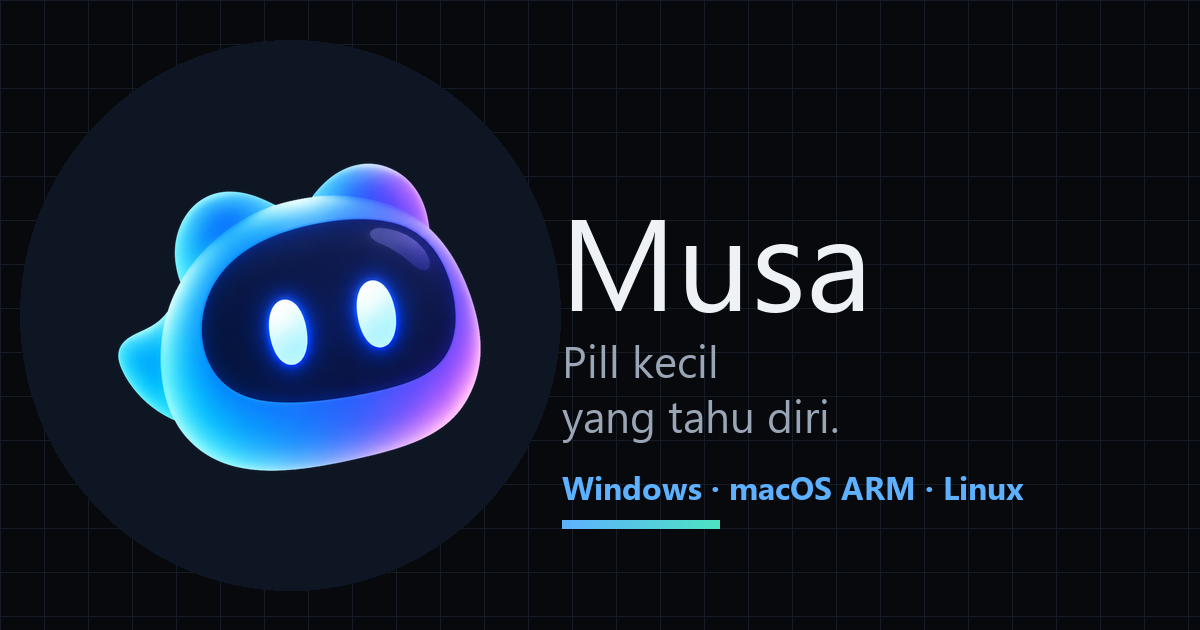
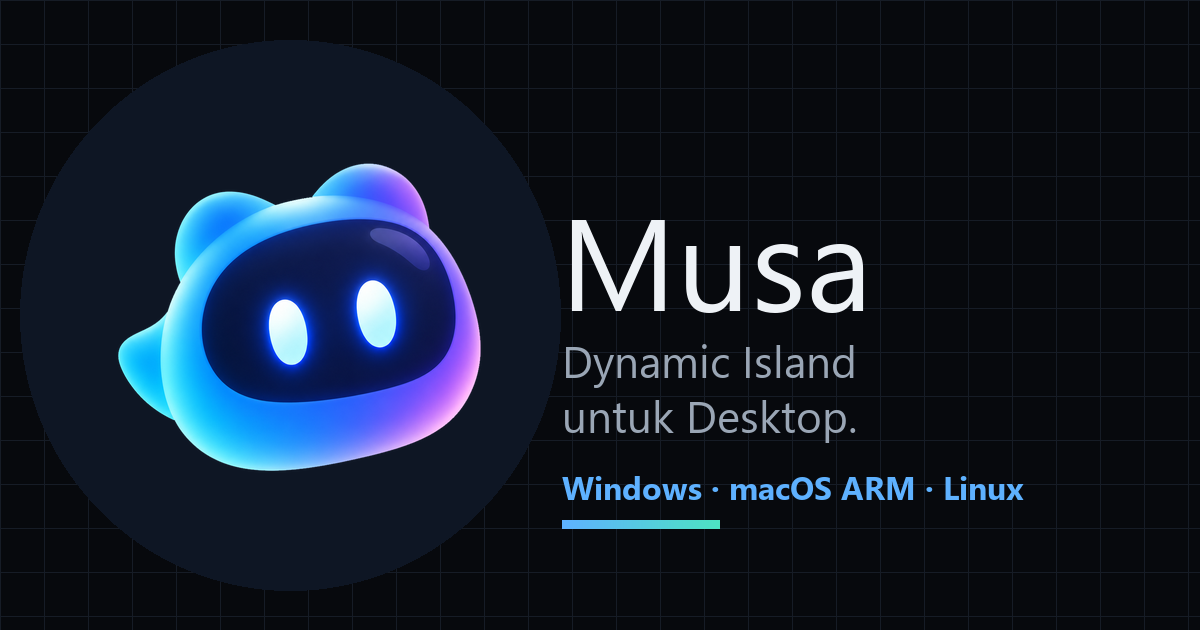
Hook Dynamic Island + tab lirik + reveal dua arah + tombol ke atas + trust strip

Changed region(s): [[0.4625, 0.6333, 0.7092, 0.6937], [0.4625, 0.5429, 0.7092, 0.6032]]

diff --git a/index.html b/index.html
@@ -3,19 +3,19 @@
 <head>
   <meta charset="utf-8" />
   <meta name="viewport" content="width=device-width, initial-scale=1" />
-  <title>Musa — Pill kecil yang tahu diri untuk desktop (Windows, macOS, Linux)</title>
+  <title>Musa — Dynamic Island untuk Desktop (Windows, macOS, Linux)</title>
   <meta name="description" content="Musa adalah pill kecil di atas layar: diam saat tidak dibutuhkan, mengembang saat hover, klik di luar pill tembus ke aplikasi. Untuk Windows 11, macOS ARM, dan Linux. Lokal, ringan, tanpa akun." />
   <link rel="canonical" href="https://musa.kacangan.net/" />
   <meta name="theme-color" content="#07090d" />
   <meta name="robots" content="index, follow" />
   <meta property="og:type" content="website" />
   <meta property="og:site_name" content="Musa" />
-  <meta property="og:title" content="Musa — Pill kecil yang tahu diri" />
+  <meta property="og:title" content="Musa — Dynamic Island untuk Desktop" />
   <meta property="og:description" content="Diam saat tidak dibutuhkan, mengembang saat hover. Klik tembus, 100% lokal. Windows 11 · macOS ARM · Ubuntu x64." />
   <meta property="og:url" content="https://musa.kacangan.net/" />
   <meta property="og:image" content="https://musa.kacangan.net/assets/og-image.png" />
   <meta name="twitter:card" content="summary_large_image" />
-  <meta name="twitter:title" content="Musa — Pill kecil yang tahu diri" />
+  <meta name="twitter:title" content="Musa — Dynamic Island untuk Desktop" />
   <meta name="twitter:description" content="Overlay pill: kecil, mengembang saat hover, click-through. Download Windows, macOS ARM, Linux." />
   <meta name="twitter:image" content="https://musa.kacangan.net/assets/og-image.png" />
   <link rel="preconnect" href="https://fonts.googleapis.com" />
@@ -43,7 +43,7 @@
 <body>
   <header class="nav">
     <div class="wrap nav-inner">
-      <a class="brand" href="index.html"><img src="assets/logo.png" alt="Logo Musa" width="30" height="30" /><span>Musa</span><code class="ver" id="ver-badge-nav">v1.0.0</code></a>
+      <a class="brand" href="index.html"><img src="assets/logo.png" alt="Logo Musa" width="30" height="30" /><span>Musa</span></a>
       <nav class="nav-links">
         <a href="#fitur">Fitur</a>
         <a href="#os">3 OS</a>
@@ -59,8 +59,8 @@
     <!-- Hero split: copy kiri, desktop mockup kanan -->
     <section class="hero wrap">
       <div class="hero-copy">
-        <p class="eyebrow"><span class="pulse"></span><span id="ver-badge">v1.0.0</span><span class="sep">·</span><span>100% lokal · tanpa akun</span></p>
-        <h1>Pill kecil<br />yang <em>tahu diri.</em></h1>
+        <p class="eyebrow"><span class="pulse"></span><span>Untuk Windows 11 · macOS ARM · Linux</span></p>
+        <h1>Dynamic Island<br />untuk Desktop, <em>yang tahu diri.</em></h1>
         <p class="lede">
           Musa nongkrong di tengah atas layar. Diam saat kamu kerja,
           mengembang saat di-hover — dan klik di luar pill selalu tembus
@@ -119,13 +119,13 @@
       </div>
     </section>
 
-    <!-- Strip OS -->
-    <section class="strip wrap" aria-label="Dukungan OS">
+    <!-- Strip trust -->
+    <section class="strip wrap" aria-label="Privasi">
       <div class="strip-inner mono">
-        <span>Windows 11</span><i>◆</i>
-        <span>macOS ARM</span><i>◆</i>
-        <span>Ubuntu x64</span><i>◆</i>
-        <span class="dim">satu pill, tiga rumah</span>
+        <span>Tanpa akun</span><i>◆</i>
+        <span>Tanpa analytic</span><i>◆</i>
+        <span>Data di perangkatmu</span><i>◆</i>
+        <a href="privasi/">Privasi →</a>
       </div>
     </section>
 
@@ -176,7 +176,7 @@
         <button class="tab" role="tab" id="tab-shelf" aria-controls="panel-shelf" aria-selected="false" tabindex="-1" data-desc="Drag file atau folder ke pill (maks 100, teks/URL 64KB, gambar 10MB), drag keluar ke chat atau email. Clipboard teks opsional, opt-in."><svg viewBox="0 0 16 16" width="13" height="13" aria-hidden="true"><path d="M2 5.5A1.5 1.5 0 0 1 3.5 4h3l1.5 2h4A1.5 1.5 0 0 1 13.5 7.5v4a1.5 1.5 0 0 1-1.5 1.5H3.5A1.5 1.5 0 0 1 2 11.5z" fill="none" stroke="currentColor" stroke-width="1.5" stroke-linejoin="round"/></svg>shelf</button>
         <button class="tab" role="tab" id="tab-stats" aria-controls="panel-stats" aria-selected="false" tabindex="-1" data-desc="CPU / RAM / baterai / unduh / unggah di pill ciut. Sampling native tiap 2 detik. Slot baterai kosong otomatis di PC tanpa baterai."><svg viewBox="0 0 16 16" width="13" height="13" aria-hidden="true"><path d="M2.5 13.5V8M6.5 13.5V5M10.5 13.5V9.5M14.5 13.5V3.5" stroke="currentColor" stroke-width="1.8" stroke-linecap="round"/></svg>stats</button>
         <button class="tab" role="tab" id="tab-gaya" aria-controls="panel-gaya" aria-selected="false" tabindex="-1" data-desc="Tiga gaya notch — Dynamic, Bulat, Poni — plus mode mata santai saat idle 60 detik. Ukuran compact / regular / large, opasitas 40–100%."><svg viewBox="0 0 16 16" width="13" height="13" aria-hidden="true"><rect x="1.5" y="5.5" width="8" height="5" rx="2.5" fill="none" stroke="currentColor" stroke-width="1.4"/><circle cx="12.5" cy="8" r="2.5" fill="none" stroke="currentColor" stroke-width="1.4"/></svg>gaya</button>
-        <button class="tab" role="tab" id="tab-mixer" aria-controls="panel-mixer" aria-selected="false" tabindex="-1" data-desc="Mixer volume per aplikasi + spectrum 24-band. Khusus Windows — di OS lain view-nya bilang terus terang tidak tersedia."><svg viewBox="0 0 16 16" width="13" height="13" aria-hidden="true"><path d="M3 5.5h10M3 8h10M3 10.5h10" stroke="currentColor" stroke-width="1.5" stroke-linecap="round"/><circle cx="6" cy="5.5" r="1.6" fill="var(--panel)" stroke="currentColor" stroke-width="1.5"/><circle cx="11" cy="8" r="1.6" fill="var(--panel)" stroke="currentColor" stroke-width="1.5"/><circle cx="7.5" cy="10.5" r="1.6" fill="var(--panel)" stroke="currentColor" stroke-width="1.5"/></svg>mixer</button>
+        <button class="tab" role="tab" id="tab-mixer" aria-controls="panel-mixer" aria-selected="false" tabindex="-1" data-desc="Mixer volume per aplikasi + spectrum 24-band. Khusus Windows — di OS lain view-nya bilang terus terang tidak tersedia."><svg viewBox="0 0 16 16" width="13" height="13" aria-hidden="true"><path d="M3 5.5h10M3 8h10M3 10.5h10" stroke="currentColor" stroke-width="1.5" stroke-linecap="round"/><circle cx="6" cy="5.5" r="1.6" class="knob" stroke="currentColor" stroke-width="1.5"/><circle cx="11" cy="8" r="1.6" class="knob" stroke="currentColor" stroke-width="1.5"/><circle cx="7.5" cy="10.5" r="1.6" class="knob" stroke="currentColor" stroke-width="1.5"/></svg>mixer</button>
         <button class="tab" role="tab" id="tab-aksi" aria-controls="panel-aksi" aria-selected="false" tabindex="-1" data-desc="Dua tombol saja: Task Manager dan kunci layar. Keep-awake sesi menahan system sleep, selalu mati tiap launch. Tray: Autohide / Force hide / Force show / Settings / Start at login / Quit."><svg viewBox="0 0 16 16" width="13" height="13" aria-hidden="true"><path d="M9 1.5L3.5 9H8l-1 5.5L12.5 7H8z" fill="none" stroke="currentColor" stroke-width="1.5" stroke-linejoin="round"/></svg>aksi</button>
       </div>
 
@@ -226,8 +226,8 @@
 
         <div class="panel" id="panel-stats" role="tabpanel" aria-labelledby="tab-stats" hidden aria-hidden="true">
           <div class="pv-slots">
-            <span class="pv-slot"><svg viewBox="0 0 30 30" width="34" height="34"><circle cx="15" cy="15" r="12" fill="none" stroke="rgba(238,242,246,.15)" stroke-width="3.5"/><circle cx="15" cy="15" r="12" fill="none" stroke="var(--brand)" stroke-width="3.5" stroke-linecap="round" stroke-dasharray="6 75.4" transform="rotate(-90 15 15)"/></svg><span><strong class="mono">8%</strong><span class="mono">CPU</span></span></span>
-            <span class="pv-slot"><svg viewBox="0 0 30 30" width="34" height="34"><circle cx="15" cy="15" r="12" fill="none" stroke="rgba(238,242,246,.15)" stroke-width="3.5"/><circle cx="15" cy="15" r="12" fill="none" stroke="var(--acc2)" stroke-width="3.5" stroke-linecap="round" stroke-dasharray="31 75.4" transform="rotate(-90 15 15)"/></svg><span><strong class="mono">41%</strong><span class="mono">RAM</span></span></span>
+            <span class="pv-slot"><svg viewBox="0 0 30 30" width="34" height="34"><circle cx="15" cy="15" r="12" fill="none" stroke="rgba(238,242,246,.15)" stroke-width="3.5"/><circle cx="15" cy="15" r="12" fill="none" class="ring-a" stroke-width="3.5" stroke-linecap="round" stroke-dasharray="6 75.4" transform="rotate(-90 15 15)"/></svg><span><strong class="mono">8%</strong><span class="mono">CPU</span></span></span>
+            <span class="pv-slot"><svg viewBox="0 0 30 30" width="34" height="34"><circle cx="15" cy="15" r="12" fill="none" stroke="rgba(238,242,246,.15)" stroke-width="3.5"/><circle cx="15" cy="15" r="12" fill="none" class="ring-b" stroke-width="3.5" stroke-linecap="round" stroke-dasharray="31 75.4" transform="rotate(-90 15 15)"/></svg><span><strong class="mono">41%</strong><span class="mono">RAM</span></span></span>
             <span class="pv-slot"><span class="mono pv-net">↓ 1.2 MB/s<br />↑ 240 KB/s</span></span>
           </div>
           <p class="mono pv-sub">sampling native tiap 2 detik</p>
@@ -332,6 +332,11 @@
       <span><a href="rilis/">Rilis</a> · <a href="privasi/">Privasi</a></span>
     </div>
   </footer>
+
+  <button class="to-top" id="to-top" aria-label="Kembali ke atas" tabindex="-1">
+    <svg viewBox="0 0 36 36" width="52" height="52" aria-hidden="true"><circle cx="18" cy="18" r="15.5" fill="none" stroke="rgba(238,242,246,.15)" stroke-width="3"/><circle id="to-top-ring" cx="18" cy="18" r="15.5" fill="none" stroke-width="3" stroke-linecap="round" stroke-dasharray="97.4" stroke-dashoffset="97.4" transform="rotate(-90 18 18)"/></svg>
+    <svg class="to-top-arrow" viewBox="0 0 16 16" width="15" height="15" aria-hidden="true"><path d="M8 13V3M3.5 7.5L8 3l4.5 4.5" fill="none" stroke="currentColor" stroke-width="1.8" stroke-linecap="round" stroke-linejoin="round"/></svg>
+  </button>
 
   <script src="app.js"></script>
 </body>

diff --git a/styles.css b/styles.css
@@ -46,11 +46,12 @@ a { color: inherit; }
   position: sticky; top: 0; z-index: 50;
   background: rgba(7, 9, 13, 0.82); backdrop-filter: blur(14px);
   border-bottom: 1px solid var(--line);
+  transition: transform 0.32s var(--spring);
 }
+.nav-hidden { transform: translateY(-100%); }
 .nav-inner { display: flex; align-items: center; gap: 20px; height: 62px; }
 .brand { display: flex; align-items: center; gap: 10px; text-decoration: none; font-weight: 800; font-size: 19px; margin-right: auto; }
 .brand img { width: 30px; height: 30px; display: block; object-fit: contain; }
-.brand .ver { font-family: var(--mono); font-size: 11px; font-weight: 600; color: var(--brand-ink); background: var(--brand); border-radius: 999px; padding: 2px 9px; }
 .nav-links { display: flex; gap: 22px; font-size: 15px; }
 .nav-links a { text-decoration: none; color: var(--mist); }
 .nav-links a:hover { color: var(--ink); }
@@ -129,6 +130,8 @@ a { color: inherit; }
 .strip { padding: 34px 0 0; }
 .strip-inner { display: flex; align-items: center; justify-content: center; flex-wrap: wrap; gap: 14px; font-size: 13px; color: var(--mist); border: 1px solid var(--line); background: rgba(14,20,29,0.6); border-radius: 999px; padding: 11px 22px; }
 .strip-inner i { color: var(--brand); font-style: normal; font-size: 9px; }
+.strip-inner a { color: var(--brand); text-decoration: none; }
+.strip-inner a:hover { text-decoration: underline; }
 .strip-inner .dim { color: var(--dim); }
 
 /* Section */
@@ -236,6 +239,10 @@ a.is-pending { opacity: 0.45; }
 .pill-play { color: #000; }
 .pill-play svg { display: block; }
 
+/* Reveal antar section */
+.rv { opacity: 0; transform: translateY(26px); transition: opacity 0.7s ease, transform 0.7s var(--spring); will-change: opacity, transform; }
+.rv.in { opacity: 1; transform: none; }
+
 /* OS grid */
 .os-grid { display: grid; grid-template-columns: repeat(3, 1fr); gap: 14px; }
 
@@ -276,6 +283,26 @@ footer { margin-top: 120px; padding: 32px 0 48px; border-top: 1px solid var(--li
 .foot-brand img { border-radius: 50%; }
 footer a { text-decoration: none; }
 footer a:hover { color: var(--brand); }
+
+/* Tombol kembali ke atas + ring progress */
+.to-top {
+  position: fixed; right: 22px; bottom: 22px; z-index: 55;
+  width: 52px; height: 52px; border-radius: 50%; padding: 0;
+  border: 1px solid var(--line); background: rgba(14, 20, 29, 0.9);
+  backdrop-filter: blur(10px); color: var(--ink); cursor: pointer;
+  display: grid; place-items: center;
+  transform: scale(0.4); opacity: 0; pointer-events: none;
+  transition: transform 0.35s var(--spring), opacity 0.25s, color 0.2s, border-color 0.2s;
+  box-shadow: 0 16px 40px -12px rgba(0, 0, 0, 0.8);
+}
+.to-top.show { transform: none; opacity: 1; pointer-events: auto; }
+.to-top:hover { border-color: var(--brand); color: var(--brand); }
+.to-top svg { grid-area: 1 / 1; }
+.to-top-arrow { position: relative; }
+#to-top-ring { stroke: var(--brand); transition: stroke-dashoffset 0.12s linear; }
+.ring-a { stroke: var(--brand); }
+.ring-b { stroke: var(--acc2); }
+.tab .knob { fill: var(--panel); }
 
 @media (max-width: 920px) {
   .hero { grid-template-columns: 1fr; gap: 36px; padding-top: 56px; }

diff --git a/app.js b/app.js
@@ -132,6 +132,71 @@ var FALLBACK_RELEASE = {
     });
   })();
 
+  // Tombol kembali ke atas + ring progress + nav ngumpet pas scroll bawah.
+  (function initToTop() {
+    var btn = document.getElementById("to-top");
+    var nav = document.querySelector(".nav");
+    if (!btn) return;
+    var ring = document.getElementById("to-top-ring");
+    var CIRC = 97.4, ticking = false, lastY = 0;
+    var reduce = window.matchMedia && window.matchMedia("(prefers-reduced-motion: reduce)").matches;
+    function update() {
+      ticking = false;
+      var max = document.documentElement.scrollHeight - window.innerHeight;
+      var y = window.scrollY || window.pageYOffset;
+      var show = y > 600;
+      btn.classList.toggle("show", show);
+      btn.tabIndex = show ? 0 : -1;
+      if (ring && max > 0) {
+        var p = Math.min(Math.max(y / max, 0), 1);
+        ring.style.strokeDashoffset = String(CIRC * (1 - p));
+      }
+      if (nav && !reduce) {
+        if (y > 200 && y > lastY + 4) nav.classList.add("nav-hidden");
+        else if (y < lastY - 4 || y <= 200) nav.classList.remove("nav-hidden");
+      }
+      lastY = y;
+    }
+    window.addEventListener("scroll", function () {
+      if (!ticking) { ticking = true; requestAnimationFrame(update); }
+    }, { passive: true });
+    window.addEventListener("resize", update);
+    btn.addEventListener("click", function () {
+      window.scrollTo({ top: 0, behavior: reduce ? "auto" : "smooth" });
+    });
+    update();
+  })();
+
+  // Reveal antar section (skip kalau reduced-motion / tanpa IO).
+  (function initReveal() {
+    if (!("IntersectionObserver" in window)) return;
+    if (window.matchMedia && window.matchMedia("(prefers-reduced-motion: reduce)").matches) return;
+    var targets = Array.prototype.slice.call(document.querySelectorAll(
+      ".hero-copy > *, .hero-demo, .strip-inner, " +
+      ".section > .kicker, .section > h2, .section > .section-sub, " +
+      ".tabs, .stage, .feat-desc, .term, #dl-cards > *, .os-grid > *, #faq details"
+    ));
+    if (!targets.length) return;
+    var byParent = new Map();
+    targets.forEach(function (el) {
+      el.classList.add("rv");
+      var p = el.parentNode;
+      if (!byParent.has(p)) byParent.set(p, []);
+      byParent.get(p).push(el);
+    });
+    byParent.forEach(function (group) {
+      group.forEach(function (el, i) {
+        el.style.transitionDelay = Math.min(i, 5) * 70 + "ms";
+      });
+    });
+    var io = new IntersectionObserver(function (entries) {
+      entries.forEach(function (en) {
+        en.target.classList.toggle("in", en.isIntersecting);
+      });
+    }, { threshold: 0.12, rootMargin: "0px 0px -6% 0px" });
+    targets.forEach(function (el) { io.observe(el); });
+  })();
+
   fetch("version.json", { cache: "no-store" })
     .then(function (r) { if (!r.ok) throw new Error("http " + r.status); return r.json(); })
     .then(function (rel) { boot(rel); applyOS(rel); })

diff --git a/tools/gen-logo.py b/tools/gen-logo.py
@@ -44,8 +44,8 @@ except Exception as e:
     print("font fail", e)
     f_title = f_sub = f_small = ImageFont.load_default()
 draw.text((560, 170), "Musa", font=f_title, fill=(238, 242, 246))
-draw.text((562, 330), "Pill kecil", font=f_sub, fill=(154, 166, 181))
-draw.text((562, 385), "yang tahu diri.", font=f_sub, fill=(154, 166, 181))
+draw.text((562, 330), "Dynamic Island", font=f_sub, fill=(154, 166, 181))
+draw.text((562, 385), "untuk Desktop.", font=f_sub, fill=(154, 166, 181))
 draw.text((562, 465), "Windows \u00b7 macOS ARM \u00b7 Linux", font=f_small, fill=(94, 177, 255))
 # aksen gradasi biru logo -> cyan
 for i in range(158):
